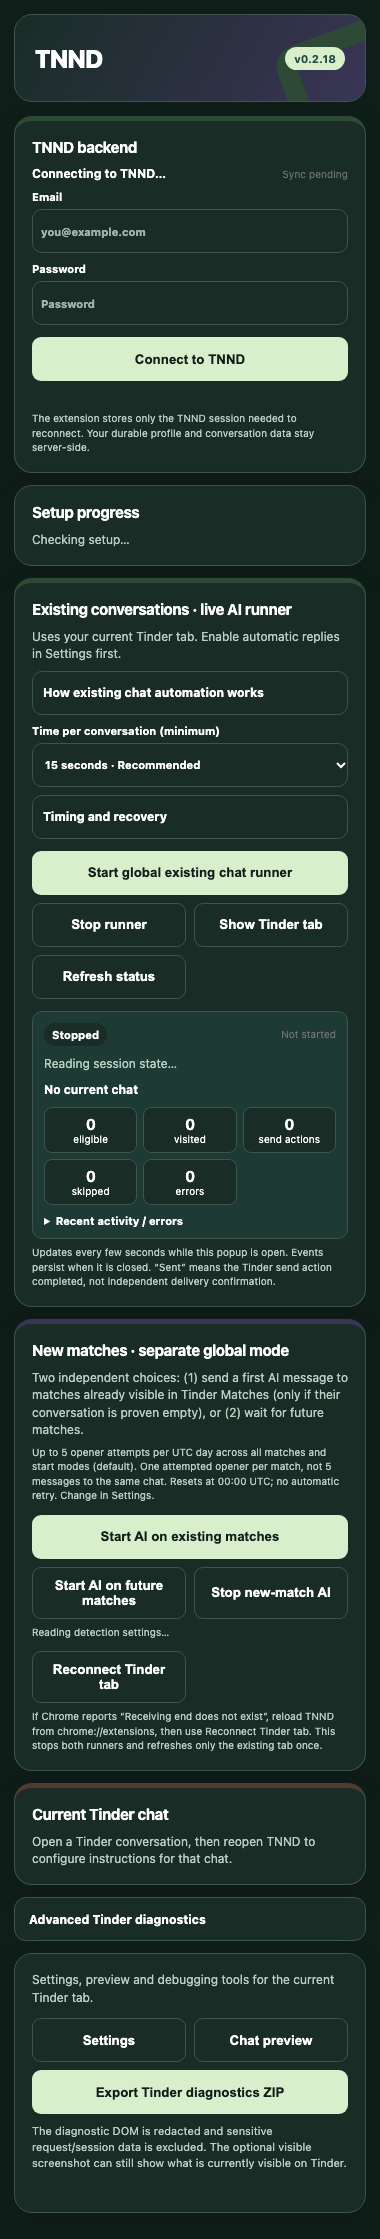
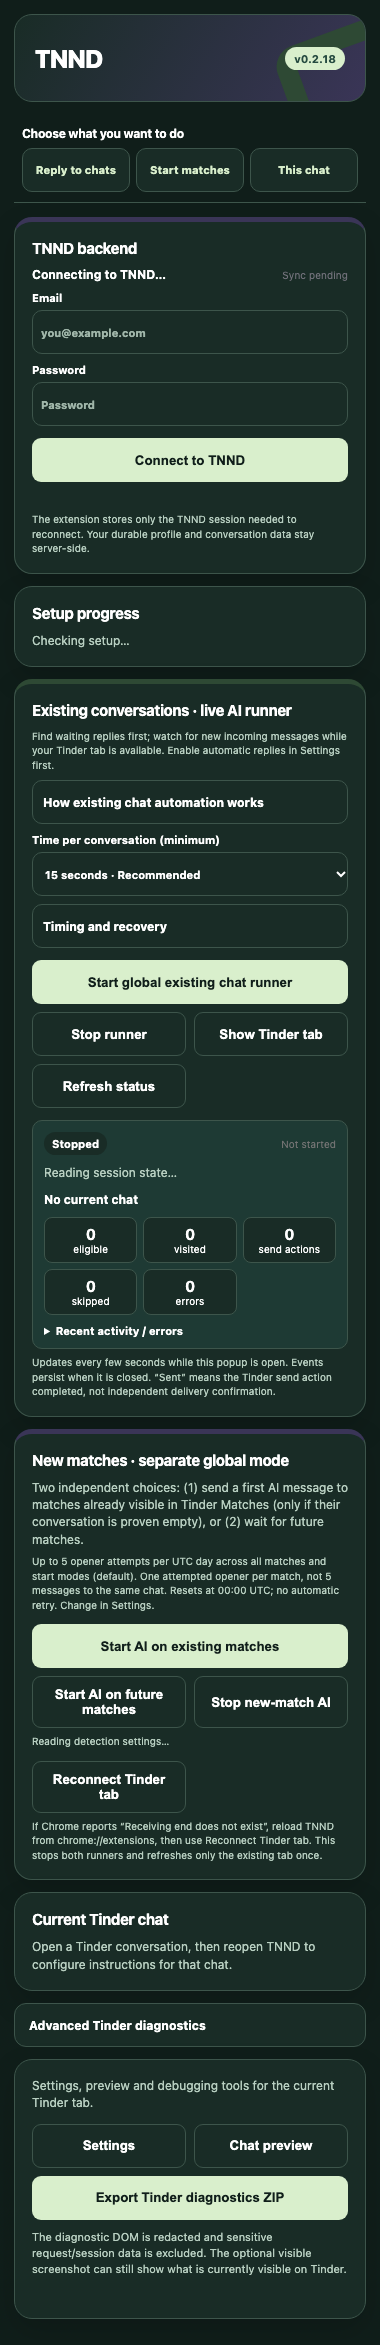
docs(ux): refresh audit evidence after main update

Changed region(s): [[0.0289, 0.0, 0.9842, 0.9862], [0.0289, 0.8321, 0.0579, 0.8629]]

diff --git a/docs/design/audits/2026-10-14-rendered-ux-audit.md b/docs/design/audits/2026-10-14-rendered-ux-audit.md
@@ -3,6 +3,7 @@
 ## Cadre et état initial
 
 - Base : `main` à `9148994` ; aucune PR ouverte lors du contrôle GitHub. Le dépôt local contenait trois `package-lock.json` non suivis, laissés intacts.
+- Avant publication, `main` a avancé jusqu'à `81bf6c5`. La branche a été rapprochée de cette version en conservant les raccourcis ajoutés au popup et le tri des conversations en attente. Les 70 captures Web et 32 captures extension « après » ont été refaites sur la version combinée ; les captures « avant » restent celles de `9148994`.
 - Docker : Web `:5173`, API `:4000` et PostgreSQL démarrés ; API et base signalées saines.
 - Référence : Neo Bento (`docs/design/PRODUCT_PROFILE.md`, `docs/design/neo-bento.md`). Le fichier Figma fourni n'était pas accessible depuis les outils de lecture de cet environnement ; aucune parité Figma n'est revendiquée.
 - Les captures proviennent du **vrai bundle TNND rendu dans Chrome** avec un compte et une API synthétiques, ou des pages HTML/CSS de l'extension avec scripts désactivés. Aucun profil, message ou jeton réel n'a été utilisé. Les captures de l'extension montrent des états visuels simulés, pas la connexion réelle à Tinder.
@@ -55,7 +56,7 @@ Les états « zéro conversation » et « aucun résultat de filtre » étaient 
 - Web : `npm run typecheck`, `npm test`, `npm run build` réussis.
 - QA Chrome avec API synthétique : **22 contrôles fonctionnels réussis**, navigation des 7 sections, brouillon, validation locale sans envoi, erreur et reprise ; audit des 57 boutons visibles et 17 disclosures sans alerte finale. Le port du serveur de fixture a été adapté localement car `:5173` était occupé par Docker ; le script CI original n'a pas été modifié.
 - Extension : **32 captures finales** ; smoke visuel sans débordement horizontal ni bouton de moins de 44 px dans les surfaces capturées.
-- Web : **70 captures finales** ; aucun débordement horizontal détecté et aucun bouton visible de moins de 44 px de haut dans les vues capturées. À 390 px, les titres de section sont à 76 px du haut, sous la navigation à 62 px.
+- Web : **70 captures finales** ; aucun débordement horizontal détecté et aucun bouton visible de moins de 44 px de haut dans les vues capturées. À 390 px, les titres mesurés sont à 76 px du haut, sous la navigation à 62 px.
 - L'audit visuel ne prouve pas la conformité WCAG complète : focus clavier, lecteur d'écran, contraste de chaque texte et zoom restent à tester manuellement.
 - Aucun vrai message Tinder envoyé, aucune action de suppression, aucun changement de permission, de sélecteur DOM ou de garde d'envoi. L'envoi externe confirmé et la prise en main manuelle restent des éléments ouverts du V1 Release Gate.
 - La CI GitHub et la PR seront consignées dans le suivi de la branche ; une compilation locale ne vaut pas validation des workflows distants.
